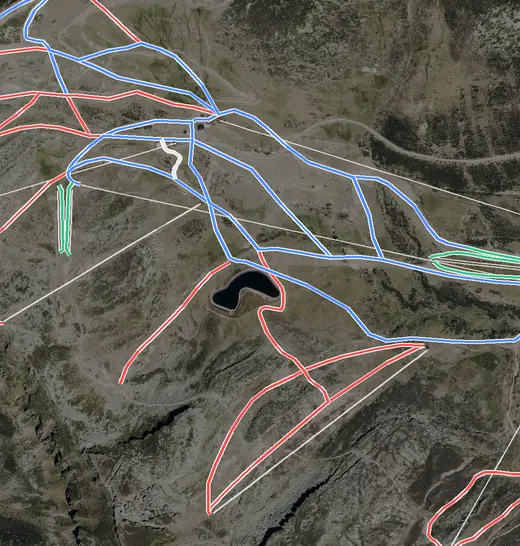
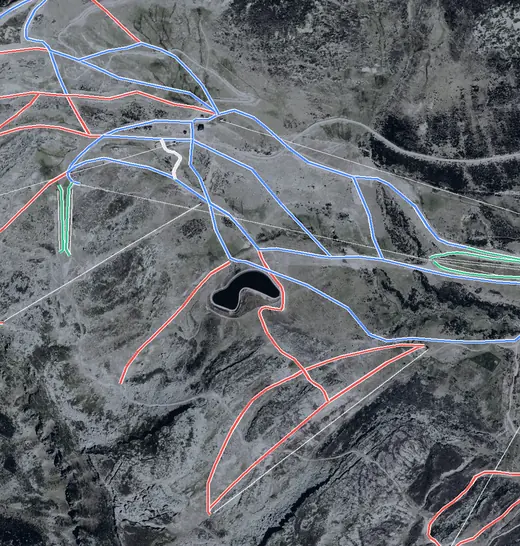
Miniaturas con tratamiento común de invierno, cifras de pistas y remontes por estación y ficha más limpia

diff --git a/public/index.html b/public/index.html
@@ -81,7 +81,7 @@ const ini=n=>esc(n.split(' ').map(w=>w[0]).slice(0,2).join(''));
 const av=(n,me)=>`<span class="av">${ini(n)}</span>`;
 const ago=t=>{const h=(Date.now()-t)/36e5;return h<1?'Hace minutos':h<24?`Hace ${Math.floor(h)} h`:h<48?'Ayer':`Hace ${Math.floor(h/24)} días`};
 let st={tab:'est',met:'desnivel',amb:'España',per:'temporada',flt:'Todas',scope:'Amigos',toast:0,user:null,token:localStorage.getItem('pistea_t'),me:null,stats:[],feed:[],rank:null,mode:'login',err:''};
-let T,W=null,qt,rq=0;st.sim=true;
+let T,W=null,qt,rq=0,SI={};st.sim=true;fetch('/img/estaciones.json').then(r=>r.json()).then(j=>{SI=j;if(st.me)render()}).catch(()=>{});
 const feedQ=()=>'feed?scope='+(st.scope==='Amigos'?'amigos':'todos');
 async function api(path,opt={}){
  let r;try{r=await fetch('/api/'+path,{method:opt.method||(opt.body?'POST':'GET'),headers:{'Content-Type':'application/json',...(st.token?{Authorization:'Bearer '+st.token}:{})},body:opt.body?JSON.stringify(opt.body):undefined})}catch(e){throw new Error('Sin conexión con el servidor. Revisa tu internet.')}
@@ -90,7 +90,7 @@ async function api(path,opt={}){
  if(!r.ok)throw new Error(j.error||'Error del servidor');return j}
 const seg=(arr,cur,fn)=>`<div class="seg">${arr.map(a=>`<button class="${a===cur?'on':''}" onclick="${fn}('${a}')">${a[0].toUpperCase()+a.slice(1)}</button>`).join('')}</div>`;
 const pills=(arr,cur,fn)=>`<div class="pills">${arr.map(a=>`<button class="${a===cur?'on':''}" onclick="${fn}('${a}')">${a}</button>`).join('')}</div>`;
-const stCard=(s,fn='ficha')=>{const k=(st.stats[s.id]||{}).skiers||0;return `<div class="st" style="background-image:url(/img/${s.id}.webp)" onclick="${fn}('${s.id}')"><span class="live"><i class="dot ${k?'on':''}"></i>${k} ${k===1?'esquiador':'esquiadores'}</span><b>${s.n}</b><small>${s.z}</small></div>`};
+const stCard=(s,fn='ficha')=>{const k=(st.stats[s.id]||{}).skiers||0;return `<div class="st" style="background-image:url(/img/${s.id}.webp)" onclick="${fn}('${s.id}')"><span class="live"><i class="dot ${k?'on':''}"></i>${k} ${k===1?'esquiador':'esquiadores'}</span><b>${s.n}</b><small>${s.z}${SI[s.id]?' · '+SI[s.id].pistas+' pistas':''}</small></div>`};
 const trk=(t,w=300,h=120)=>{if(!t||t.length<2)return '';const xs=t.map(p=>p[0]),ys=t.map(p=>p[1]),mx=Math.max(...xs)||1,my=Math.max(...ys)||1,d=t.map((p,i)=>(i?'L':'M')+(12+p[0]/mx*(w-24)).toFixed(1)+' '+(12+p[1]/my*(h-24)).toFixed(1)).join('');return `<svg viewBox="0 0 ${w} ${h}" width="100%" height="100%"><path d="${d}" fill="none" stroke="#f4f5f7" stroke-width="2" stroke-linecap="round" stroke-linejoin="round"/></svg>`};
 
 // ---------- sesión ----------
@@ -160,9 +160,10 @@ async function profile(id){try{const u=await api('user?id='+id);ov(`<div class="
 async function kudo(id,b){try{const r=await api('kudos',{body:{id}});b.classList.toggle('on',r.liked);b.querySelector('span').textContent=r.kudos}catch(e){flash(e.message)}}
 function ov(h){clearInterval(T);if(W!=null){navigator.geolocation.clearWatch(W);W=null}const o=$('.ov');if(o)o.remove();$('#app').insertAdjacentHTML('beforeend',`<div class="ov"><button class="x" onclick="ov0()">${ic('x')}</button>${h}</div>`)}
 function ficha(i){const s=SM[i],info=st.stats[i]||{leaders:[],skiers:0};
- ov(`<div class="top" style="margin:0 -20px;padding:70px 20px 20px;background:linear-gradient(180deg,#0b0c0f66,#0b0c0f 96%),url(/img/${i}.webp) center/cover"><div class="eyebrow" style="color:#c9ced8">${s.z}</div><h1>${s.n}</h1><small style="color:#c9ced8">${info.skiers} ${info.skiers===1?'esquiador':'esquiadores'} esta temporada</small></div>
+ ov(`<div class="top" style="margin:0 -20px;padding:70px 20px 20px;background:linear-gradient(180deg,#0b0c0f66,#0b0c0f 96%),url(/img/${i}.webp) center/cover"><div class="eyebrow" style="color:#c9ced8">${s.z}</div><h1>${s.n}</h1></div>
+ ${SI[i]?`<div class="kpis" style="margin:14px 0"><div><b>${SI[i].pistas}</b><small>pistas</small></div><div><b>${SI[i].remontes}</b><small>remontes</small></div><div><b>${info.skiers}</b><small>esquiadores</small></div></div>`:''}
  <div id="m3d" class="map" style="height:220px;margin-top:0;display:grid;place-items:center;cursor:pointer" onclick="load3d('${i}')"><div style="text-align:center">${ic('map')}<div style="font-weight:600;margin-top:6px">Explorar en 3D</div><small>Relieve, pistas y remontes reales</small></div></div>
- <button class="btn" style="margin-top:12px" onclick="traquear('${i}')">Traquear aquí</button>
+ <small style="display:block;margin-top:8px">Pistas y remontes según OpenStreetMap (recuento aproximado). Fotografía aérea del IGN.</small><button class="btn" style="margin-top:12px" onclick="traquear('${i}')">Traquear aquí</button>
  <h2>Líderes de la temporada</h2>${info.leaders.length?info.leaders.map((x,k)=>`<div class="row"><span class="pos">${k+1}</span>${av(x.alias)}<b style="font-weight:600">${esc(x.alias)}</b><span class="val">${fmt(x.v)} m</span></div>`).join(''):'<div class="empty">Nadie ha esquiado aquí todavía. Sé el primero.</div>'}
  <button class="btn gh" style="margin-top:14px" onclick="st.amb='${s.n}';st.met='desnivel';ov0();tab('rec')">Ver clasificación completa</button>`)}
 function load3d(i){const m=$('#m3d');m.onclick=null;m.style.cssText='height:380px;padding:0;overflow:hidden;position:relative;margin-top:0';m.innerHTML=`<iframe src="/3d/?estacion=${i}" title="Mapa 3D" allow="fullscreen; geolocation" style="width:100%;height:100%;border:0"></iframe><button class="kudo" style="position:absolute;right:8px;top:8px;background:var(--bg)" onclick="big3d(this)">Ampliar</button>`}

diff --git a/scripts/gen_miniaturas.py b/scripts/gen_miniaturas.py
@@ -2,13 +2,16 @@
 Uso: python scripts/gen_miniaturas.py   (lee mapas/estaciones/<id>/data; necesita Pillow)"""
 import json, sys
 from pathlib import Path
-from PIL import Image, ImageDraw, ImageEnhance
+from PIL import Image, ImageDraw, ImageEnhance, ImageOps
+import math
 
 RAIZ = Path(__file__).resolve().parent.parent
 SAL = RAIZ / 'public' / 'img'; SAL.mkdir(parents=True, exist_ok=True)
 W, H, SS = 520, 546, 2          # salida y supermuestreo del trazo
 COL = {'novice': (53, 194, 138), 'easy': (77, 141, 255), 'intermediate': (239, 83, 80),
        'advanced': (20, 20, 24), 'expert': (20, 20, 24), 'freeride': (20, 20, 24)}
+
+DATOS = {}
 
 def hacer(est):
     d = RAIZ / 'mapas' / 'estaciones' / est / 'data'
@@ -27,19 +30,24 @@ def hacer(est):
     caja = (cx - ancho / 2, cz - alto / 2, cx + ancho / 2, cz + alto / 2)
     c = [(caja[0] - x0) * sx, (caja[1] - z0) * sz, (caja[2] - x0) * sx, (caja[3] - z0) * sz]
     base = img.crop(tuple(int(round(v)) for v in c)).resize((W * SS, H * SS), Image.LANCZOS)
-    base = ImageEnhance.Brightness(base).enhance(.62)
-    base = ImageEnhance.Contrast(base).enhance(1.1)
+    # tratamiento común: niveles automáticos (iguala teselas y estaciones), menos color y un velo azul frío de invierno
+    base = ImageOps.autocontrast(base, cutoff=1.5)
+    base = ImageEnhance.Color(base).enhance(.5)
+    base = Image.blend(base, Image.new('RGB', base.size, (34, 58, 96)), .26)
+    base = ImageEnhance.Brightness(base).enhance(.8)
     cap = Image.new('RGBA', base.size, (0, 0, 0, 0)); dr = ImageDraw.Draw(cap)
     k = W * SS / ancho
     P = lambda pts: [((x - caja[0]) * k, (z - caja[1]) * k) for x, z in pts]
     for l in f['lifts']:
-        if len(l['pts']) > 1: dr.line(P(l['pts']), fill=(255, 255, 255, 190), width=2 * SS // 2 + 1)
+        if len(l['pts']) > 1: dr.line(P(l['pts']), fill=(255, 255, 255, 190), width=SS)
     for l in sorted(f['pistes'], key=lambda p: p.get('difficulty') in ('advanced', 'expert')):
         if len(l['pts']) < 2: continue
         q = P(l['pts']); col = COL.get(l.get('difficulty'), (230, 230, 235))
-        dr.line(q, fill=(255, 255, 255, 235), width=int(4.6 * SS), joint='curve')
-        dr.line(q, fill=col + (255,), width=int(2.8 * SS), joint='curve')
+        dr.line(q, fill=(255, 255, 255, 235), width=int(3.8 * SS), joint='curve')
+        dr.line(q, fill=col + (255,), width=int(2.2 * SS), joint='curve')
     out = Image.alpha_composite(base.convert('RGBA'), cap).convert('RGB').resize((W, H), Image.LANCZOS)
+    nombres = lambda L: len({l['name'] for l in L if l.get('name')}) or len(L)   # OSM parte las pistas en tramos: se cuentan nombres distintos
+    DATOS[est] = {'pistas': nombres(f['pistes']), 'remontes': nombres(f['lifts'])}
     out.save(SAL / f'{est}.webp', quality=76, method=6)
     return (SAL / f'{est}.webp').stat().st_size // 1024
 
@@ -48,3 +56,4 @@ if __name__ == '__main__':
     for e in ids:
         try: print(e, hacer(e), 'KB')
         except Exception as ex: print(e, 'ERROR', type(ex).__name__, ex)
+    (SAL / 'estaciones.json').write_text(json.dumps(DATOS, ensure_ascii=False), encoding='utf-8')   # cifras medidas: pistas, remontes y km de pista
